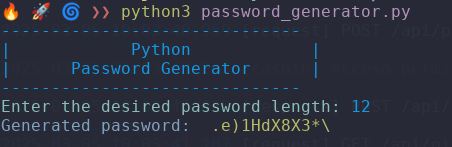
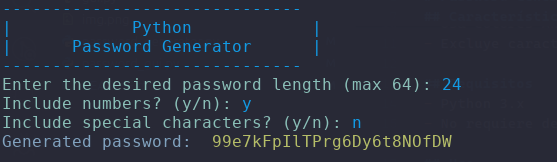
feat: validate and limit password length to 64

diff --git a/password_generator.py b/password_generator.py
@@ -16,12 +16,20 @@ print("{:->30}".format(""))
 
 
 class PasswordGenerator:
-    def __init__(self, password_length):
+    def __init__(
+        self, password_length, include_numbers=True, include_special_chars=True
+    ):
         self.password_length = password_length
+        self.include_numbers = include_numbers
+        self.include_special_chars = include_special_chars
 
     def generate_password(self):
         # Define the allowed characters
-        characters = string.ascii_letters + string.digits + string.punctuation
+        characters = string.ascii_letters
+        if self.include_numbers:
+            characters += string.digits
+        if self.include_special_chars:
+            characters += string.punctuation
 
         # Generate the password
         password = "".join(
@@ -32,13 +40,22 @@ class PasswordGenerator:
 
 # Ask the user for the password length
 try:
-    length = int(input(f"{CYAN}Enter the desired password length: {RESET}"))
+    length = int(input(f"{CYAN}Enter the desired password length (max 64): {RESET}"))
     if length < 1:
         print(f"{RED}Error: Password length must be at least 1.{RESET}")
+    elif length > 64:
+        print(f"{RED}Error: Password length cannot exceed 64.{RESET}")
     else:
-        password = PasswordGenerator(length)
+        include_numbers = input(f"{CYAN}Include numbers? (y/n): {RESET}").lower() == "y"
+        include_special_chars = (
+            input(f"{CYAN}Include special characters? (y/n): {RESET}").lower() == "y"
+        )
+
+        password_generator = PasswordGenerator(
+            length, include_numbers, include_special_chars
+        )
         print(
-            f"{BLUE}Generated password: {RESET} {GREEN}{password.generate_password()}{RESET}"
+            f"{BLUE}Generated password: {RESET} {GREEN}{password_generator.generate_password()}{RESET}"
         )
 except ValueError:
     print(f"{RED}Error: Please enter a valid number.{RESET}")

diff --git a/README.md b/README.md
@@ -32,8 +32,3 @@ python3 password_generator.py
 ## Ejemplo de salida:
 
 ![Ejemplo de salida](/img.png "Ejemplo de salida")
-
-sudo apt-get install python3-tk
-sudo apt install python3-pip -y
-
-pip3 install pyperclip
